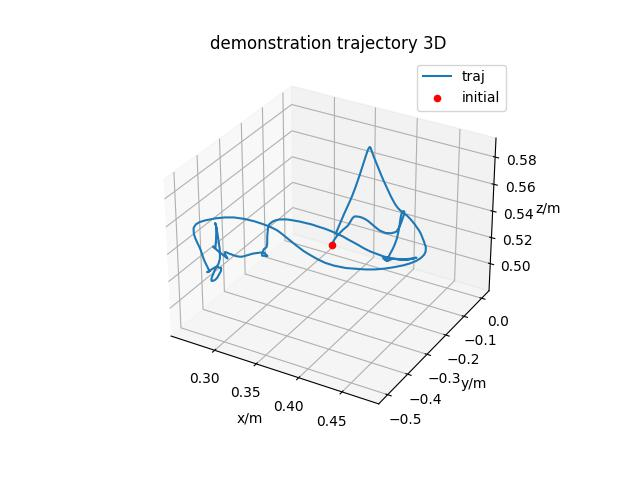
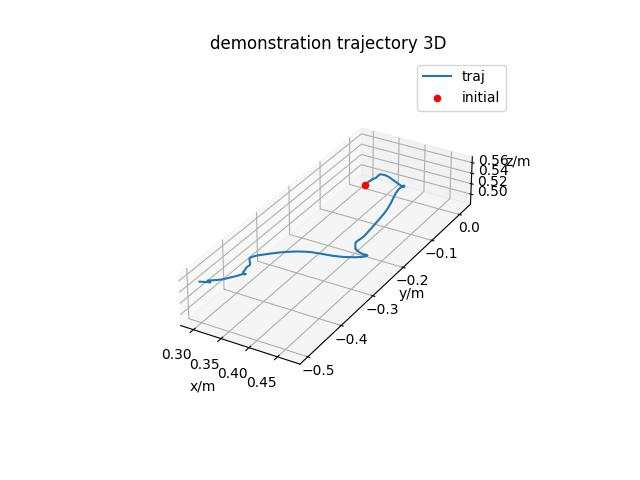
add execution code

diff --git a/examples/my_run_joint_dmp_0721.py b/examples/my_run_joint_dmp_0721.py
@@ -1,0 +1,292 @@
+from tkinter.tix import Tree
+import numpy as np
+import math
+import rospy
+import argparse
+import pickle
+import time
+import copy
+from matplotlib import pyplot as plt
+# from autolab_core import RigidTransform, Point
+from frankapy import FrankaArm, SensorDataMessageType
+from frankapy import FrankaConstants as FC
+from frankapy.proto_utils import sensor_proto2ros_msg, make_sensor_group_msg
+from frankapy.proto import JointPositionSensorMessage, ShouldTerminateSensorMessage
+from franka_interface_msgs.msg import SensorDataGroup
+
+from my_dmp.processing import *
+from my_dmp.dmp_class import *
+
+SAVE_PATH_PRE_FIX = './data/0721'
+
+
+def my_make_joint_dmp_info(tau, alpha_y, beta_y, num_dims, num_basis, alpha_x, mu, h, weights):
+    return {
+        'tau': tau,
+        'alpha': alpha_y,
+        'beta': beta_y,
+        'num_dims': num_dims,
+        'num_basis': num_basis,
+        'num_sensors': alpha_x,
+        'mu': mu if isinstance(mu, list) else mu.reshape(-1).tolist(),
+        'h': h if isinstance(h, list) else h.reshape(-1).tolist(),
+        'phi_j': np.ones(num_basis),
+        'weights': weights if isinstance(weights, list) else weights.tolist(),
+    }
+
+def compute_tau_for_franka_interface(tau, expert_traj_len, record_hz, execute_hz=1000):
+    """
+        compute the parameter tau in 'joint_dmp_info', which will be passed to execute_joint_dmp,
+        and further used by franka-interface: joint_dmp_trajectory_generator.cpp
+        @params:
+            - tau: the ratio of time, which is (T_recording / T_executing)
+            - expert_traj_len: the number of points included in expert trajectory
+            - record_hz: the number of points included in expert trajectory per second
+            - execute_hz: the frequency of franka interface, default is 1000
+    """
+    return tau * (record_hz / execute_hz) * (100 / expert_traj_len)
+
+def reset_arm_with_recorded_traj(fa, traj, reset_time):
+    assert reset_time > 10
+
+    franka_arm_pub = rospy.Publisher(FC.DEFAULT_SENSOR_PUBLISHER_TOPIC, SensorDataGroup, queue_size=1000)
+    traj_inv = traj[::-1]
+    fa.goto_joints(joints=traj_inv[0], duration=reset_time + 1, dynamic=True, buffer_time=10,
+                   joint_impedances=FC.DEFAULT_JOINT_IMPEDANCES, ignore_virtual_walls=True)
+    init_time = rospy.Time.now().to_time()
+    i = 0
+
+    rate = rospy.Rate(len(traj_inv) / reset_time)
+    
+    while not rospy.is_shutdown():
+        i += 1
+        if i >= len(traj_inv):
+            break
+        traj_gen_proto_msg = JointPositionSensorMessage(
+            id=i, timestamp=rospy.Time.now().to_time() - init_time, 
+            joints=traj_inv[i]
+        )
+        ros_msg = make_sensor_group_msg(
+            trajectory_generator_sensor_msg=sensor_proto2ros_msg(
+            traj_gen_proto_msg, SensorDataMessageType.JOINT_POSITION)
+        )
+        
+        rospy.loginfo('Publishing: ID {}'.format(traj_gen_proto_msg.id))
+        franka_arm_pub.publish(ros_msg)
+        rate.sleep()
+
+    term_proto_msg = ShouldTerminateSensorMessage(timestamp=rospy.Time.now().to_time() - init_time, should_terminate=True)
+    ros_msg = make_sensor_group_msg(
+        termination_handler_sensor_msg=sensor_proto2ros_msg(
+            term_proto_msg, SensorDataMessageType.SHOULD_TERMINATE)
+        )
+    franka_arm_pub.publish(ros_msg)
+    rospy.loginfo('Done')
+
+if __name__ == '__main__':
+    parser = argparse.ArgumentParser()
+
+    # path constants
+    parser.add_argument('--traj_path', '-tp', type=str, default=SAVE_PATH_PRE_FIX + '/traj.pkl',
+                        help='Path of the expert trajectory.')
+    parser.add_argument('--memory_path', '-mp', type=str, default=SAVE_PATH_PRE_FIX + '/joints_memory.txt',
+                        help='Path of real Franka joint angles, recorded by Franka Interface.')
+    parser.add_argument('--dmp_weights_path', '-wp', type=str, default=SAVE_PATH_PRE_FIX + '/joint_dmp_weights.pkl',
+                        help='Path of the calculated dmp weight to save.')
+    parser.add_argument('--save_path', '-sp', type=str, default=SAVE_PATH_PRE_FIX)
+
+    # frequency constants
+    parser.add_argument('--record_frequency', '-rf', type=float, default=10,
+                        help='Frequency that the we recorded the expert trajectory, \
+                              see my_haptic_subscriber.py for details.')
+    parser.add_argument('--execute_frequency', '-ef', type=float, default=1000,
+                        help='Frequency that franka interface compute joint angles y, \
+                              see franka_interface: joint_dmp_trajectory_generator.cpp for details.')
+
+    # other constants
+    parser.add_argument('--run_time', '-rt', type=float, default=31.0)
+    parser.add_argument('--tau', '-tau', type=float, default=1)
+
+    args = parser.parse_args()
+
+#====================================plot_trajectories
+
+    # load recorded trajectory
+    state_dict = pickle.load(open(args.traj_path, "rb" ) )
+    my_goal = None
+    my_y0 = None
+
+    for key in state_dict.keys():
+        skill_dict = state_dict[key]
+        
+        if skill_dict["skill_description"] == "GuideMode":
+            skill_state_dict = skill_dict["skill_state_dict"]
+            expert_trajectory_time = skill_state_dict["time_since_skill_started"]
+    
+    # get joint trajectory, goal, and initial joint angles
+    q = state_dict[0]["skill_state_dict"]['q']
+    my_goal = copy.deepcopy(q[-1, :])
+    my_y0 = copy.deepcopy(q[0, :])
+
+    # change goal position in joint space
+    # my_goal = [-0.09787809, -1.01912609, -0.71364178, -2.47889868, -2.11014511, 1.54519812, -0.75279362]
+
+    # train joint dmp
+    dt = 1 / len(q)  # set dt for dmp and cs = (1 / traj_data_points)
+    dmp_trajectory = MyDMPTrajectory(dt=dt, num_dims=7, num_basis=42)
+    weights = dmp_trajectory.train(q.transpose(1, 0))
+
+    joint_dmp_info = {'mu': dmp_trajectory.mu_all,
+                      'h': dmp_trajectory.h_all,
+                      'weights': weights,
+                     }
+
+    # save joint dmp weights
+    save_path = args.dmp_weights_path
+    with open(save_path, 'wb') as pkl_f:
+        pickle.dump(joint_dmp_info, pkl_f, protocol=2)
+    
+    plt.figure()
+    # plot expert trajectory
+    plt.subplot(2, 2, 1)
+    plt.plot(expert_trajectory_time, q)
+    plt.legend(['joint0', 'joint1', 'joint2', 'joint3', 'joint4', 'joint5', 'joint6'])
+    plt.title('expert trajectory')
+
+    # reproduce trajectory
+    tau_reproduce = args.tau
+    freqency_scale = args.record_frequency / args.execute_frequency
+    time_steps_reproduce = round(dmp_trajectory.cs.time_steps / (tau_reproduce * freqency_scale))
+    y, dy, ddy = dmp_trajectory.execute(tau=(tau_reproduce * freqency_scale), goal=my_goal)
+    reproduce_trajectory_time = np.linspace(0,
+                                            expert_trajectory_time[-1] / tau_reproduce,
+                                            time_steps_reproduce)
+
+    plt.subplot(2, 2, 2)
+    plt.plot(reproduce_trajectory_time, y)
+    plt.legend(['joint0', 'joint1', 'joint2', 'joint3', 'joint4', 'joint5', 'joint6'])
+
+#====================================training
+
+    # load dmp weights trained before
+    with open(args.dmp_weights_path, "rb") as pkl_f:
+        joint_dmp_info_dict = pickle.load(pkl_f)
+
+    mu, h = joint_dmp_info_dict['mu'], joint_dmp_info_dict['h']
+    weights = joint_dmp_info_dict['weights']
+
+    tau = compute_tau_for_franka_interface(tau=args.tau,
+                                           expert_traj_len=len(q),
+                                           record_hz=args.record_frequency,
+                                           execute_hz=args.execute_frequency)
+
+    alpha_y = 60.0
+    beta_y = alpha_y / 4
+    alpha_x = 1.0
+    num_basis = 42
+    num_dims = 7
+
+#====================================run
+
+    print('Starting robot')
+    fa = FrankaArm()
+    
+    joint_dmp_info = my_make_joint_dmp_info(tau=tau,
+                                            alpha_y=alpha_y,
+                                            beta_y=beta_y,
+                                            num_dims=num_dims,
+                                            num_basis=num_basis,
+                                            alpha_x=alpha_x,
+                                            mu=mu,
+                                            h=h,
+                                            weights=weights
+                                            )
+
+    test_rounds = 1
+
+    joints_memory, pose_trans_memory, pose_rot_memory, execution_time = [], [], [], []
+    for iter in range(test_rounds):
+        print('==============================>')
+        print('round: (%d/%d) ' % (iter, test_rounds))
+        print('Resetting robot to home joints!')
+        print('Current goal: ', my_goal)
+        print('Psi mu: ', mu)
+        print('Psi h: ', h)
+
+        joints = [0, -np.pi / 4, 0, -3 * np.pi / 4, 0, np.pi / 2, -np.pi / 4]
+        fa.goto_joints(joints=joints, block=True)
+
+        # fa.open_gripper(block=True)
+        # time.sleep(3)
+        # fa.goto_gripper(width=0.02, 
+        #                 grasp=True,
+        #                 speed=0.04,
+        #                 force=0.5,
+        #                 block=True)
+
+        print('Resetting robot to home joints and home gripper!')
+
+        """
+            DEFAULT_K_GAINS = [600.0, 600.0, 600.0, 600.0, 250.0, 150.0, 50.0]
+            DEFAULT_D_GAINS = [50.0, 50.0, 50.0, 50.0, 30.0, 25.0, 15.0]
+        """
+
+        """
+            Good params
+            k_gains=[600.0, 600.0, 600.0, 600.0, 200.0, 150.0, 50.0],
+            d_gains=[50.0, 50.0, 50.0, 25.0, 25.0, 25.0, 25.0]
+        """
+
+        fa.execute_joint_dmp(joint_dmp_info=joint_dmp_info, 
+                             duration=args.run_time, 
+                             use_impedance=True,
+                             k_gains=[600.0, 600.0, 600.0, 600.0, 200.0, 150.0, 50.0],
+                             d_gains=[50.0, 50.0, 50.0, 25.0, 25.0, 25.0, 10.0],
+                             initial_sensor_values=my_goal if isinstance(my_goal, list) else my_goal.reshape(-1).tolist(),
+                             block=False)
+
+        timer = rospy.Rate(50)
+        start_time = time.time()
+        while True:
+            end_time = time.time()
+            if (end_time - start_time) >= args.run_time:
+                break
+            joints_memory.append(fa.get_joints().tolist())
+            pose_trans_memory.append(fa.get_pose().translation)
+            pose_rot_memory.append(fa.get_pose().rotation)
+            execution_time.append(end_time - start_time)
+            timer.sleep()
+
+        print('The robot has reached the goal!')
+
+    fa.open_gripper()
+
+    time.sleep(3)
+
+    reset_arm_with_recorded_traj(copy.deepcopy(joints_memory), reset_time=args.run_time)
+
+    """
+    # plot the joint angles sent by franka-interface
+        joints = np.loadtxt(args.memory_path, dtype=float, delimiter=' ')
+        print(joints.shape)
+        plt.subplot(2, 2, 3)
+        plt.plot(joints)
+    """
+    
+    print('The robot stopped!')
+
+    # plot the history joint angles Franka acutually executed
+    plt.subplot(2, 2, 4)
+    plt.plot(execution_time, joints_memory)
+    np.save(args.save_path + '/joints_angle_memory.npy', joints_memory)
+    plt.show()
+
+    # plot the history end effector translation Franka acutually executed
+    plt.figure()
+    plt.plot(execution_time, pose_trans_memory)
+    np.save(args.save_path + '/ee_trans_memory.npy', pose_trans_memory)
+    plt.show()
+
+    # plot the history end effector rotation Franka acutually executed
+    np.save(args.save_path + '/ee_rot_memory.npy', pose_rot_memory)
+    np.save(args.save_path + '/execution_time.npy', execution_time)

diff --git a/data/0720/draw0721.py b/data/0720/draw0721.py
@@ -4,8 +4,8 @@ import numpy as np
 import pickle
 from scipy.spatial.transform import Rotation as R
 
-pre_traj = '/home/roboticslab/yxj/frankapy/data/0720/my_haptic_subscriber_hololens/'
-# pre_traj = 'C:/Users/yan/Documents/GitHub/frankapy/data/0720/my_haptic_subscriber_hololens/'
+# pre_traj = '/home/roboticslab/yxj/frankapy/data/0720/my_haptic_subscriber_hololens/'
+pre_traj = 'C:/Users/yan/Documents/GitHub/frankapy/data/0721/my_haptic_subscriber_hololens/'
 traj_path = pre_traj+'traj.pkl'  
 
 class MyConstants(object):
@@ -49,7 +49,10 @@ with open(traj_path, 'rb') as f1:
     print(data2[0]['skill_state_dict'].keys())
     q = data2[0]['skill_state_dict']['q']
     O_T_EE = data2[0]['skill_state_dict']['O_T_EE']
+    log_d = data2[0]['skill_state_dict']['log_d']
     time_list = data2[0]['skill_state_dict']['time_since_skill_started']
+    desired_translation = data2[0]['skill_state_dict']['desired_translation']
+    desired_quat = data2[0]['skill_state_dict']['desired_quat']
 
     # plot q
     plt.figure()
@@ -79,6 +82,9 @@ with open(traj_path, 'rb') as f1:
     position_array  = np.array(position_list)
     ax1.plot3D(position_array[:,0],position_array[:,1],position_array[:,2],label='traj')
     ax1.scatter(position_array[0,0],position_array[0,1],position_array[0,2],c='r',label='initial')
+    plt.gca().set_box_aspect(( max(position_array[:,0])-min(position_array[:,0]), 
+                               max(position_array[:,1])-min(position_array[:,1]), 
+                               max(position_array[:,2])-min(position_array[:,2])))
     # ax1.scatter(position_array[200,0],position_array[200,1],position_array[200,2],c='b',label='t=5s')
     # ax1.scatter(MyConstants.CARTESIAN_CENTER[0],MyConstants.CARTESIAN_CENTER[1],MyConstants.CARTESIAN_CENTER[2],c='g',label='goal region center')
     # print(position_list)
@@ -90,11 +96,27 @@ with open(traj_path, 'rb') as f1:
     plt.savefig(pre_traj+'demonstration_3d.jpg')
 
 
-
     # plot quat
     plt.figure()
-    plt.plot(time_list, quat_list)
+    plt.plot(time_list[:], quat_list[:])
     plt.title('quaternion vs time')
     plt.savefig(pre_traj+'demonstration_quat.jpg')
+
+    # plot log_d
+    plt.figure()
+    plt.subplot(3,1,1)
+    plt.plot(time_list, log_d.reshape(time_list.shape[0],-1))
+    plt.title('human intention vs time')
+
+    # plot desered_translation-position_list
+    plt.subplot(3,1,2)
+    plt.plot(time_list, desired_translation-position_array)
+    plt.title('translation diff vs time')
+
+    plt.subplot(3,1,3)
+    plt.plot(time_list, desired_quat-np.array(quat_list))
+    plt.title('orientation diff vs time')
+    plt.savefig(pre_traj+'log_d.jpg')
+
 
     plt.show()

diff --git a/MYREADME.md b/MYREADME.md
@@ -308,6 +308,11 @@
 
 * **0720**
     * 进一步修改了`my_haptic_subscriber_hololens.py`。目前nullspace只针对末端位置，这样就能用hololens微调末端的角度，不影响omega决定的末端位置。
+
+* **0721**
+    * 完成了exp1。demonstration的代码是`my_haptic_subscriber_hololens.py`,数据存在`0721`文件夹中，画图文件是`0720/draw0721.py`。execution的代码是`my_run_joint_dmp.py`
+    
+    
 ### 常用命令
 1. 启动仿真环境
    * 启动Gazebo
